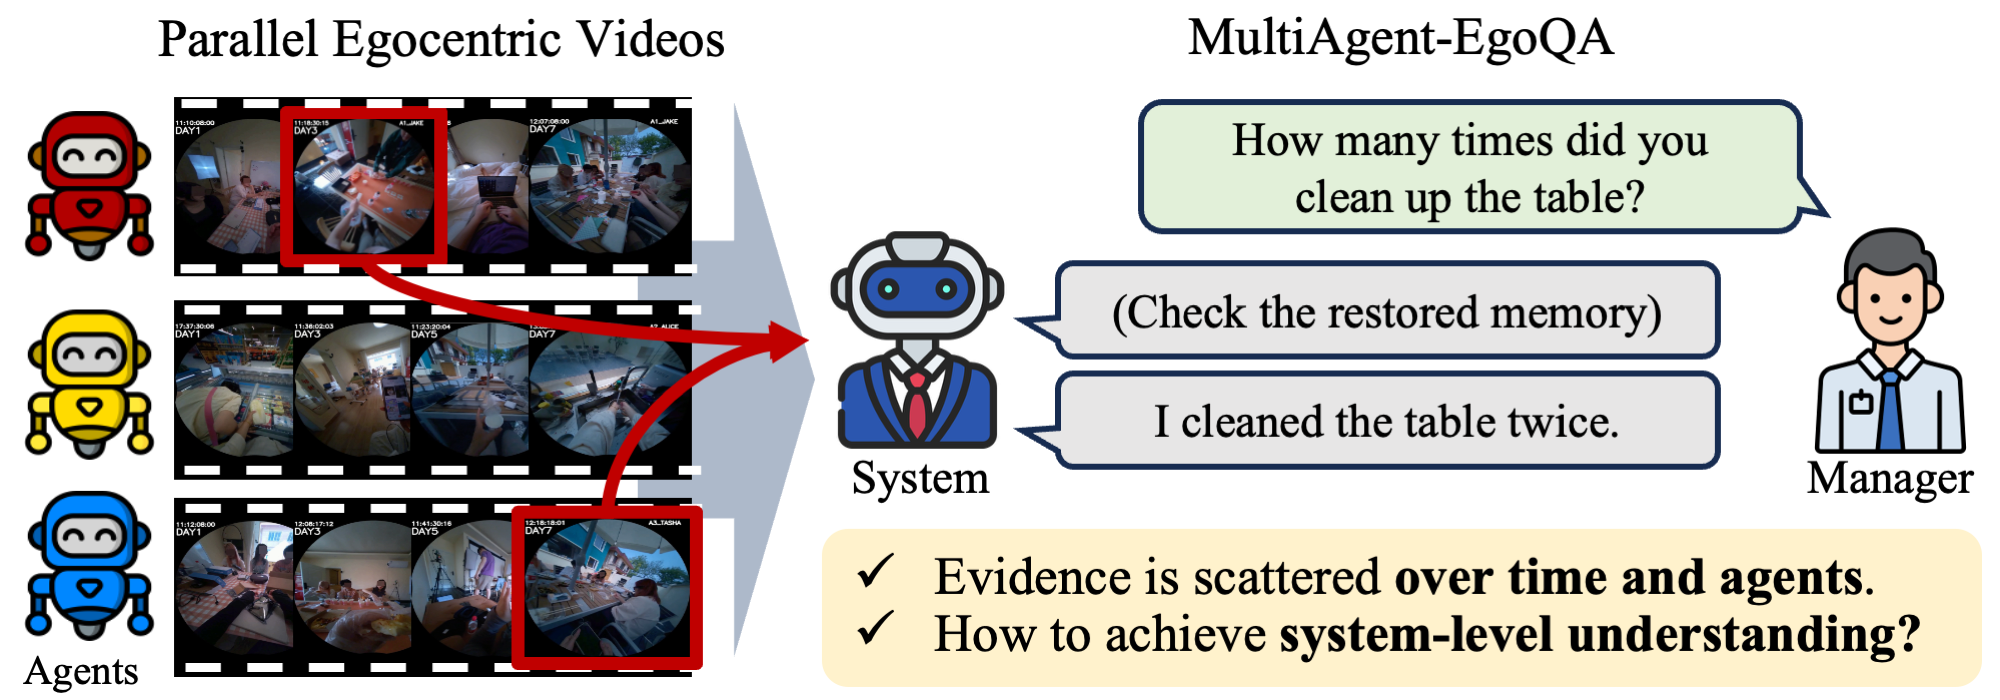
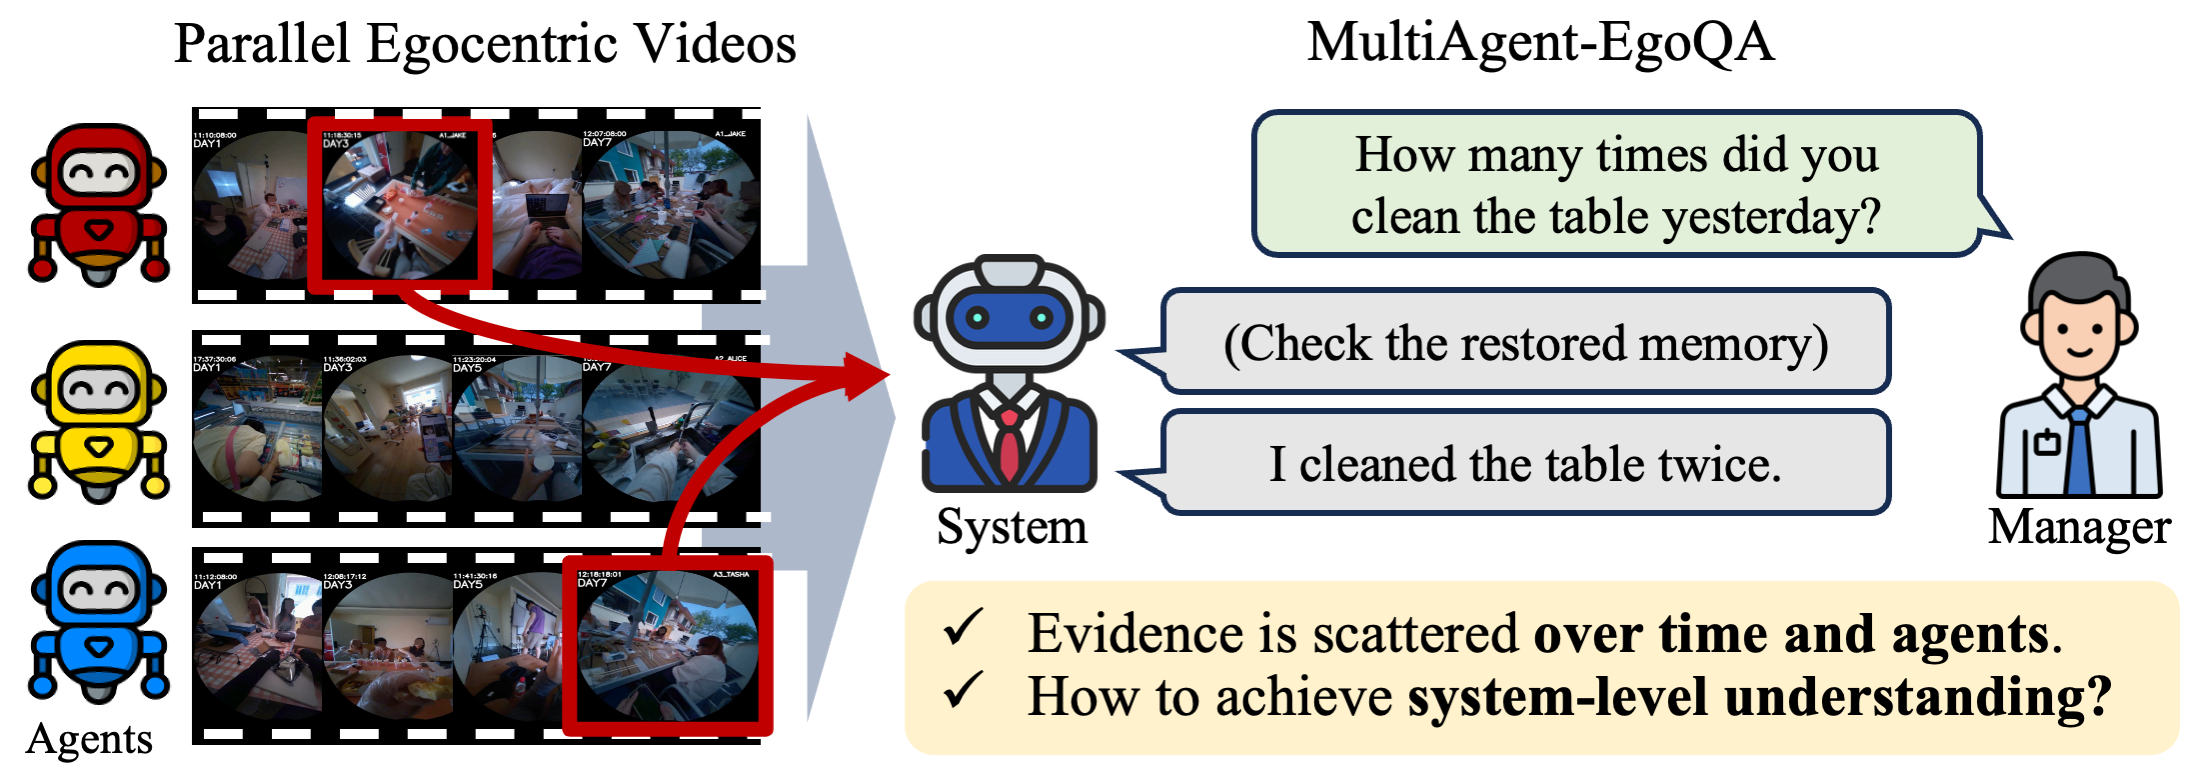
update concept figure

diff --git a/index.html b/index.html
@@ -68,7 +68,7 @@
 
     <!-- Teaser Figure -->
     <div class="teaser">
-      <img src="images/concept_figure.png" alt="MA-EgoQA Concept Figure" />
+      <img src="images/concept_figure2.png" alt="MA-EgoQA Concept Figure" />
       <p class="caption">
         <strong>MA-EgoQA</strong> evaluates AI systems on understanding multiple simultaneous egocentric video streams from embodied agents.
         A human manager can query the multi-agent system about events observed by any of the agents — requiring the system to integrate
